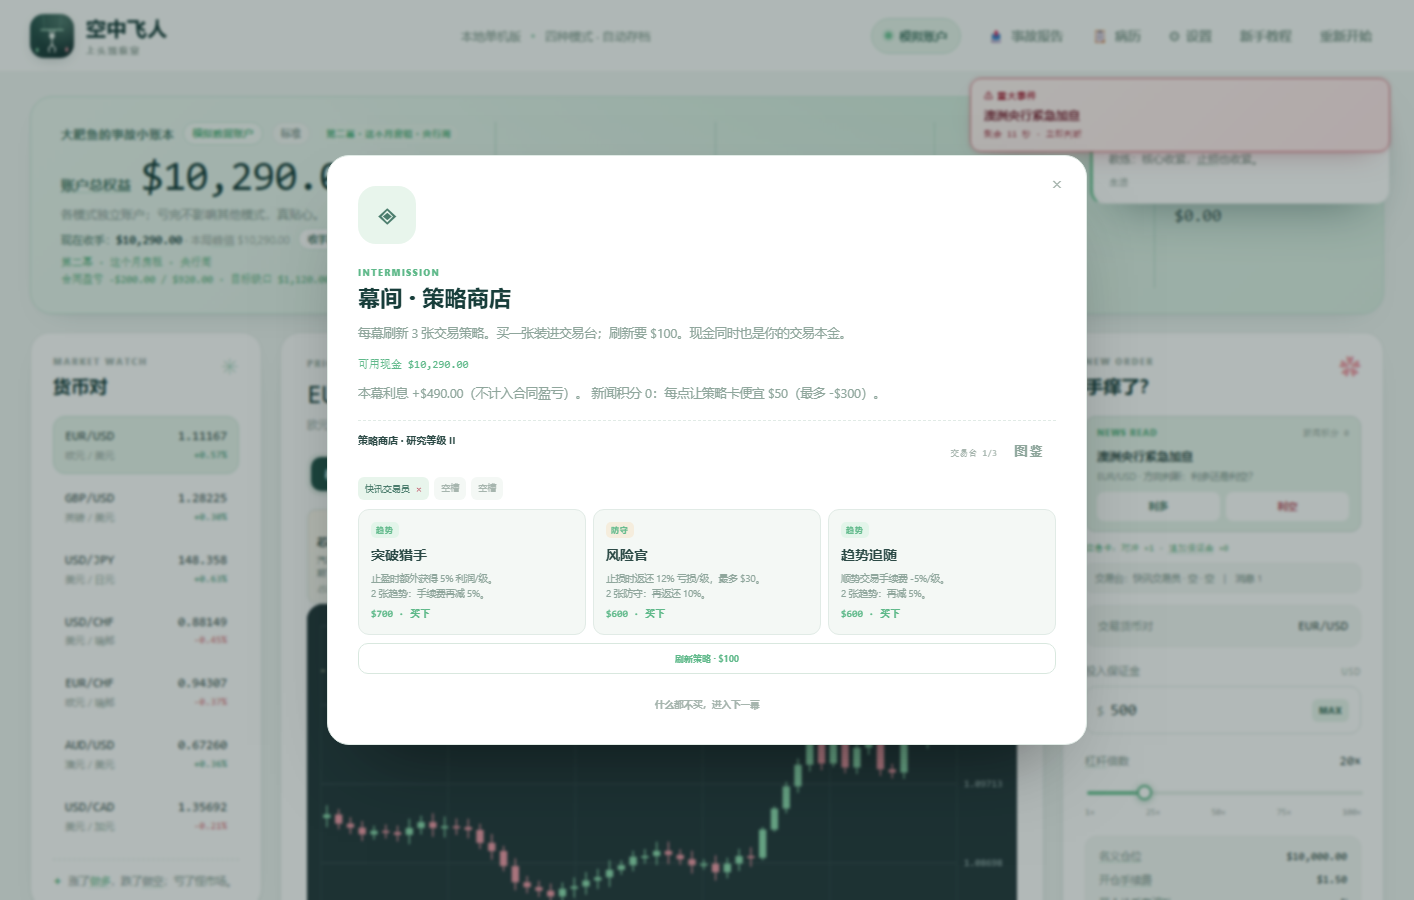
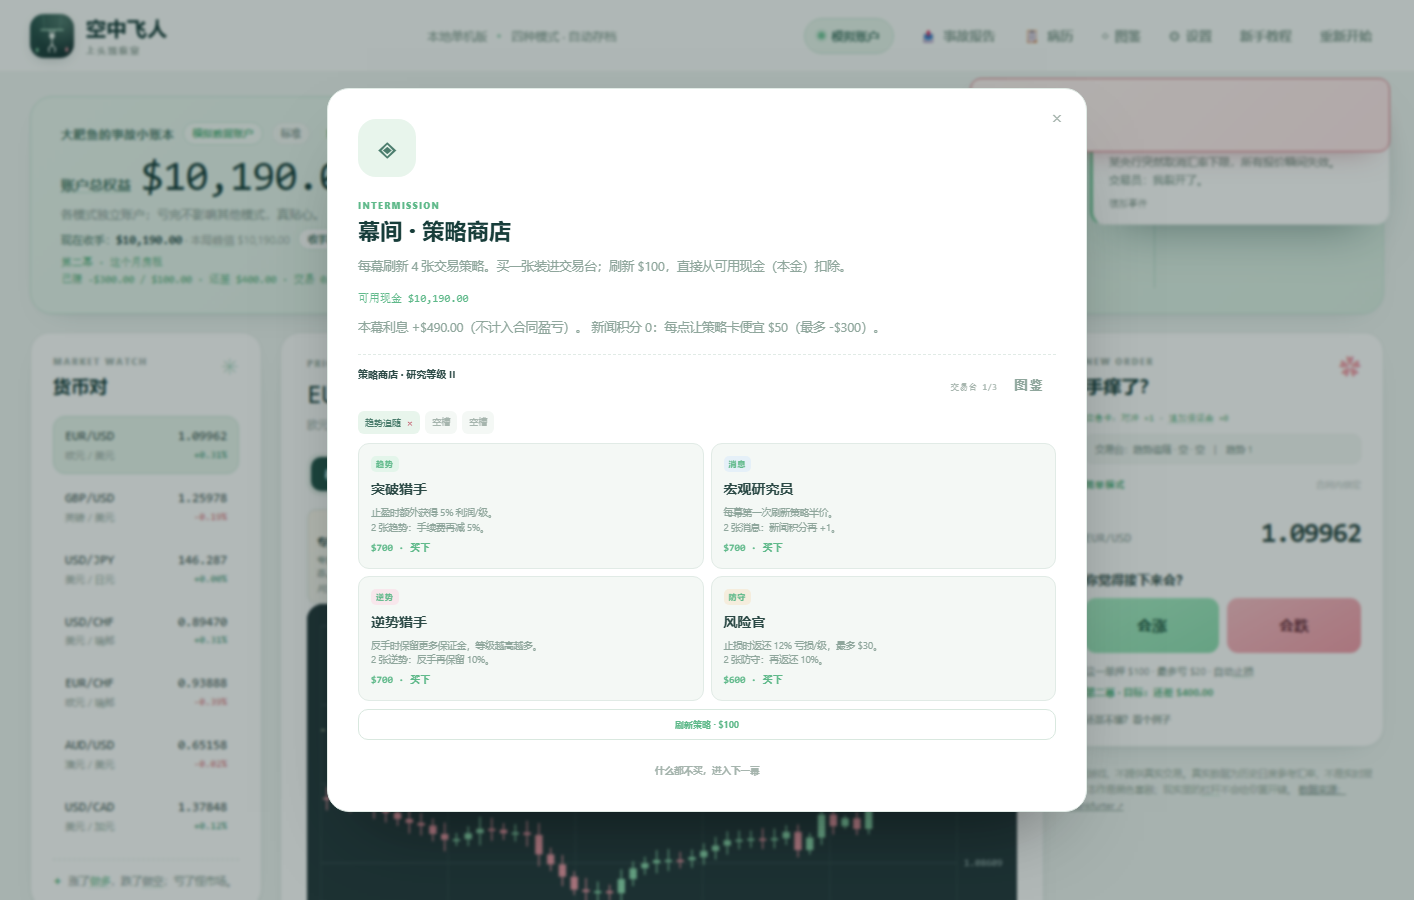
Show four strategy offers and charge rerolls from player cash

diff --git a/ui.js b/ui.js
@@ -540,13 +540,13 @@
     const offers = (contract.strategyOffers || []).length ? contract.strategyOffers : strategyOfferCache;
     if ((contract.strategyOffers || []).length) strategyOfferCache = contract.strategyOffers;
     else if (strategyOfferCache.length) contract.strategyOffers = [...strategyOfferCache];
-    const freeReroll = E.strategyDeckCards().some(card => card.id === 'news-macro' || card.id === 'news-oracle') && (contract.strategyRerolls || 0) === 0;
+    const rerollCost = E.strategyRerollCost ? E.strategyRerollCost() : 100;
     const levelText = level => level > 1 ? ` ${'I'.repeat(level)}` : '';
     const roman = ['', 'I', 'II', 'III'][Math.max(1, Math.min(3, Number(contract.shopLevel) || 1))];
     root.innerHTML = `<div class="strategy-shop-head"><strong>策略商店 · 研究等级 ${roman}</strong><span>交易台 ${deck.length}/3 <button type="button" id="strategyCodexBtn" class="text-button">图鉴</button></span></div>
       <div class="strategy-shop-deck">${[0,1,2].map(i => deck[i] ? `<span>${deck[i].name}${levelText(deck[i].level)} <button type="button" class="strategy-sell" data-sell="${deck[i].id}" title="卖出">×</button></span>` : '<span class="empty">空槽</span>').join('')}</div>
       <div class="strategy-offers"></div>
-      <button type="button" id="strategyReroll" class="outline-button strategy-reroll"${contract.strategyBought ? ' disabled' : ''}>刷新策略 · ${freeReroll ? '免费' : '$100'}</button>`;
+      <button type="button" id="strategyReroll" class="outline-button strategy-reroll"${contract.strategyBought ? ' disabled' : ''}>刷新策略 · $${rerollCost}</button>`;
     const offersRoot = root.querySelector('.strategy-offers');
     offers.forEach(cardId => {
       const card = (D.STRATEGY_CARDS || []).find(item => item.id === cardId);

diff --git a/engine.js b/engine.js
@@ -392,7 +392,7 @@
   function refreshStrategyOffers() {
     const contract = state.contract;
     if (!contract || !settings.coachMode) return [];
-    contract.strategyOffers = drawStrategyCards(3, [], strategyShopPool());
+    contract.strategyOffers = drawStrategyCards(4, [], strategyShopPool());
     contract.strategyBought = false;
     save();
     emit();
@@ -402,10 +402,10 @@
   function rerollStrategyOffers() {
     const contract = state.contract;
     if (!contract || !contract.pendingShop || contract.strategyBought) return { ok: false, message: '现在不能刷新。' };
-    const cost = strategyFreeReroll() ? 0 : 100;
+    const cost = strategyRerollCost();
     if (state.cash < cost) return { ok: false, message: `刷新需要 $${cost}。` };
     state.cash -= cost;
-    contract.strategyOffers = drawStrategyCards(3, [], strategyShopPool());
+    contract.strategyOffers = drawStrategyCards(4, [], strategyShopPool());
     contract.strategyRerolls = (contract.strategyRerolls || 0) + 1;
     save();
     emit();
@@ -484,8 +484,9 @@
     return rate;
   }
 
-  function strategyFreeReroll() {
-    return (strategyHasCard('news-macro') || strategyHasCard('news-oracle')) && (state.contract?.strategyRerolls || 0) === 0;
+  function strategyRerollCost() {
+    const discount = (strategyHasCard('news-macro') || strategyHasCard('news-oracle')) && (state.contract?.strategyRerolls || 0) === 0 ? 50 : 0;
+    return 100 - discount;
   }
 
   function strategyContrarianCount() {
@@ -2346,6 +2347,7 @@
     chooseStartingStrategy,
     refreshStrategyOffers,
     rerollStrategyOffers,
+    strategyRerollCost,
     buyStrategyCard,
     sellStrategyCard,
     strategyPrice,

diff --git a/i18n.js b/i18n.js
@@ -150,6 +150,7 @@
     '这一局，你打算怎么活？': 'How do you plan to survive this run?',
     '这份合同不开放借款。先按合同目标走。': 'This contract does not allow borrowing. Work toward the contract target.',
     '四个流派，十二张策略。交易台最多放 3 张；同流派 2 张触发协同。': 'Four styles, twelve strategies. Up to 3 cards on the desk; 2 cards of the same style trigger a synergy.',
+    '每幕刷新 4 张交易策略。买一张装进交易台；刷新 $100，直接从可用现金（本金）扣除。': 'Four strategy cards per act. Buy one for your desk; a reroll costs $100, deducted directly from your available cash (principal).',
     '合同只在模拟模式生效。目标完成后可以收手，也可以继续贪；失败照样进病历。': 'Contracts apply only in Sim mode. Hit the goal and you can cash out or keep pushing; fail and it still goes in your records.',
     '上一份': 'Previous',
     '下一份': 'Next',

diff --git a/styles.css b/styles.css
@@ -613,7 +613,7 @@ html[data-theme="night"] .trade-button.short { background: linear-gradient(150de
 .strategy-sell { border: 0; background: transparent; color: var(--short-text); font-size: 10px; padding: 0 0 0 3px; }
 .strategy-tier { padding: 1px 4px; border-radius: 4px; background: #f5e7c9; color: #8a5b12; font-size: 7px; font-weight: 900; vertical-align: middle; }
 .strategy-shop-deck .empty { background: var(--surface-tint); color: var(--text-dim); }
-.strategy-offers { display: grid; grid-template-columns: repeat(3, minmax(0, 1fr)); gap: 7px; margin-top: 9px; }
+.strategy-offers { display: grid; grid-template-columns: repeat(2, minmax(0, 1fr)); gap: 7px; margin-top: 9px; }
 .strategy-reroll { width: 100%; margin-top: 8px; padding: 8px; font-size: 9px; color: var(--accent-deep); }
 .strategy-reroll:disabled { opacity: 0.4; }
 .strategy-codex-modal { width: min(820px, 94vw); }

diff --git a/data.js b/data.js
@@ -594,11 +594,11 @@
     },
     {
       id: 'news-macro', name: '宏观研究员', style: 'news', styleLabel: '消息', tier: 2, cost: 700,
-      desc: '每幕第一次刷新策略免费。\n2 张消息：新闻积分再 +1。'
+      desc: '每幕第一次刷新策略半价。\n2 张消息：新闻积分再 +1。'
     },
     {
       id: 'news-oracle', name: '消息先知', style: 'news', styleLabel: '消息', tier: 3, cost: 1200,
-      desc: '新闻积分 +1/级；每幕第一次刷新免费。\n2 张消息：再 +1。'
+      desc: '新闻积分 +1/级；每幕第一次刷新半价。\n2 张消息：再 +1。'
     },
     {
       id: 'contrarian-revert', name: '均值回归', style: 'contrarian', styleLabel: '逆势', tier: 1, cost: 600,

diff --git a/i18n/en-data.js b/i18n/en-data.js
@@ -112,12 +112,12 @@
       'news-macro': {
         name: 'Macro Analyst',
         styleLabel: 'News',
-        desc: 'The first strategy refresh in each act is free.\n2 News cards: +1 more news point.'
+        desc: 'The first strategy refresh in each act costs half price.\n2 News cards: +1 more news point.'
       },
       'news-oracle': {
         name: 'News Oracle',
         styleLabel: 'News',
-        desc: '+1 news point per level; the first refresh in each act is free.\n2 News cards: +1 more.'
+        desc: '+1 news point per level; the first refresh in each act is half price.\n2 News cards: +1 more.'
       },
       'contrarian-revert': {
         name: 'Mean Reversion',

diff --git a/index.html b/index.html
@@ -485,7 +485,7 @@
       <div class="modal-icon">◈</div>
       <span class="contract-kicker">INTERMISSION</span>
       <h2 id="shopTitle">幕间 · 策略商店</h2>
-      <p class="contract-intro">每幕刷新 3 张交易策略。买一张装进交易台；刷新要 $100。现金同时也是你的交易本金。</p>
+      <p class="contract-intro">每幕刷新 4 张交易策略。买一张装进交易台；刷新 $100，直接从可用现金（本金）扣除。</p>
       <div id="shopCash" class="shop-cash"></div>
       <p id="shopPerks" class="shop-perks"></p>
       <div id="strategyShop" class="strategy-shop"></div>

diff --git a/README.md b/README.md
@@ -182,7 +182,7 @@ node server.js
 | 流派 | 分工 |
 |---|---|
 | 趋势 | 趋势追随降手续费；突破猎手止盈加成；趋势之王两者都吃 |
-| 消息 | 快讯交易员加新闻积分；宏观研究员免费刷新；消息先知两者都吃 |
+| 消息 | 快讯交易员加新闻积分；宏观研究员首次刷新半价；消息先知两者都吃 |
 | 逆势 | 均值回归解锁反手；逆势猎手保留更多保证金；逆势王牌保留最多 |
 | 防守 | 风险官止损返还；铁壁追加保证金；防守堡垒两者都吃 |
 
@@ -192,10 +192,10 @@ node server.js
 
 - 第一次商店为 **研究等级 II**，第二次为 **研究等级 III**；
 - 等级 II 刷基础/进阶卡，等级 III 开始出现高费精英卡；
-- 随机刷 3 张策略，可能刷到已拥有策略；
+- 随机刷 4 张策略，可能刷到已拥有策略；
 - 买一张进交易台，或升级已拥有的同名牌；
 - 同名牌可升到 **II / III**；
-- 刷新一次 $100，宏观研究员/消息先知让每幕第一次刷新免费；
+- 刷新一次 $100，直接从可用现金（本金）扣除；宏观研究员/消息先知让每幕第一次刷新半价；
 - 每幕只能买/升/卖一次；
 - 可以把交易台上的策略卖出，返还 50%；
 - 新闻积分每点让策略卡便宜 $50，最多 -$300；
